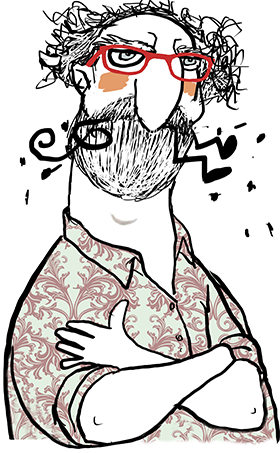
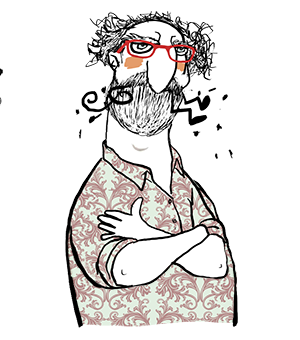
new profile pics

diff --git a/themes/qr-theme/layouts/_partials/eqlist.html b/themes/qr-theme/layouts/_partials/eqlist.html
@@ -2,14 +2,14 @@
   {{- range where site.Pages "Params.Tags" "intersect" (slice "equipa") }}    
     <!-- extra-class based on type or tag -->
     <div class="list-item-container">
-      <h3>{{ .Params.title }}</h3>
-      <h4>{{ .Params.function }}</h4>
+      <h3><a href="{{ .RelPermalink }}">{{ .Params.title }}</a></h3>
+      <h5>{{ .Params.function }}</h5>
       <div class="summary">
          {{ with .Resources.Get .Params.picture }}
-            <img class="thumb-equipa" src="{{ .RelPermalink }}" width="150px"/>
+            <a href="{{ .RelPermalink }}"><img class="thumb-equipa" src="{{ .RelPermalink }}" width="150px"/></a>
          {{ end }}
       <!-- {{ .Summary }} -->
-      <br/><br/><a href="{{ .RelPermalink }}">ler&nbsp;mais</a>
+      <!-- <br/><br/><a href="{{ .RelPermalink }}">ler&nbsp;mais</a> -->
       </div>
       <!--
           image / thumbnail

diff --git a/themes/qr-theme/assets/css/main.css b/themes/qr-theme/assets/css/main.css
@@ -199,8 +199,8 @@ a {
 }
 
 .list-item-container {
-  border-radius:25px;
-  border: 2px solid #888;
+  /*border-radius:25px;
+  border: 2px solid #888;*/
   padding: 1.5em;
   margin: 1em;
 }

diff --git a/content/nos/monica/_index.md b/content/nos/monica/_index.md
@@ -2,7 +2,7 @@
 title = "Mónica Catalá"
 date = 2023-01-01T08:00:00-07:00
 draft = false
-picture = 'profil.jpg'
+picture = 'profil.png'
 function = "Designer Gráfico"
 tags = ['equipa']
 weight = 40

diff --git a/content/nos/ana/_index.md b/content/nos/ana/_index.md
@@ -2,7 +2,7 @@
 title = 'Ana Falé'
 date = 2023-01-01T08:00:00-07:00
 draft = false
-picture = 'profil.png'
+picture = 'profil.jpg'
 function = "Comunicação"
 tags = ['equipa']
 weight = 20
